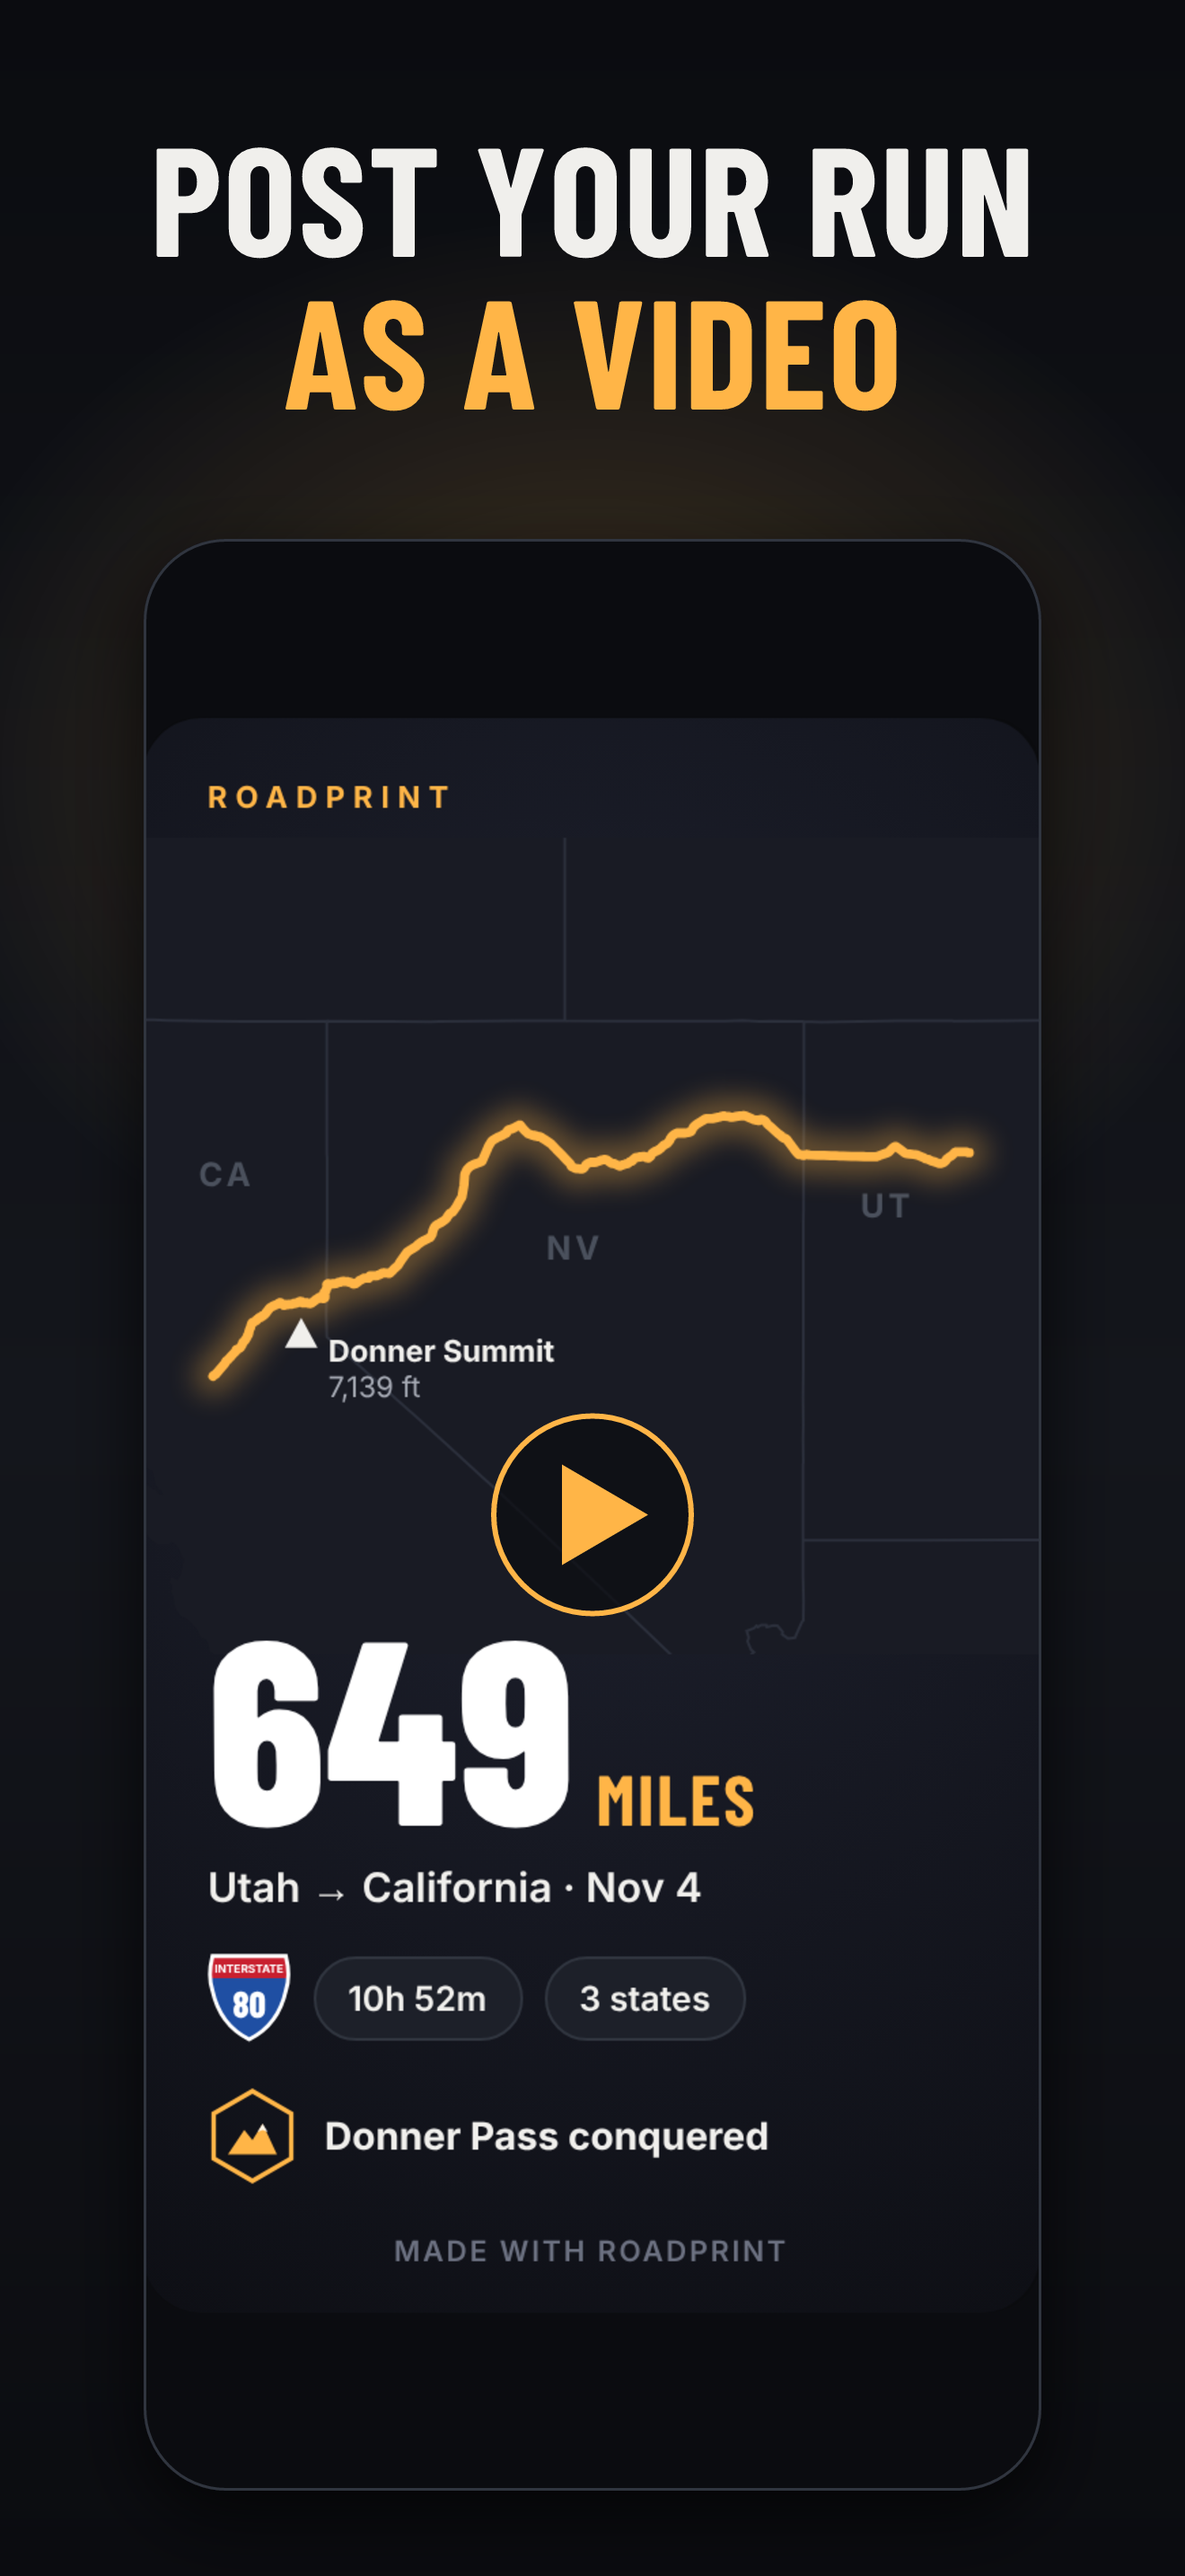
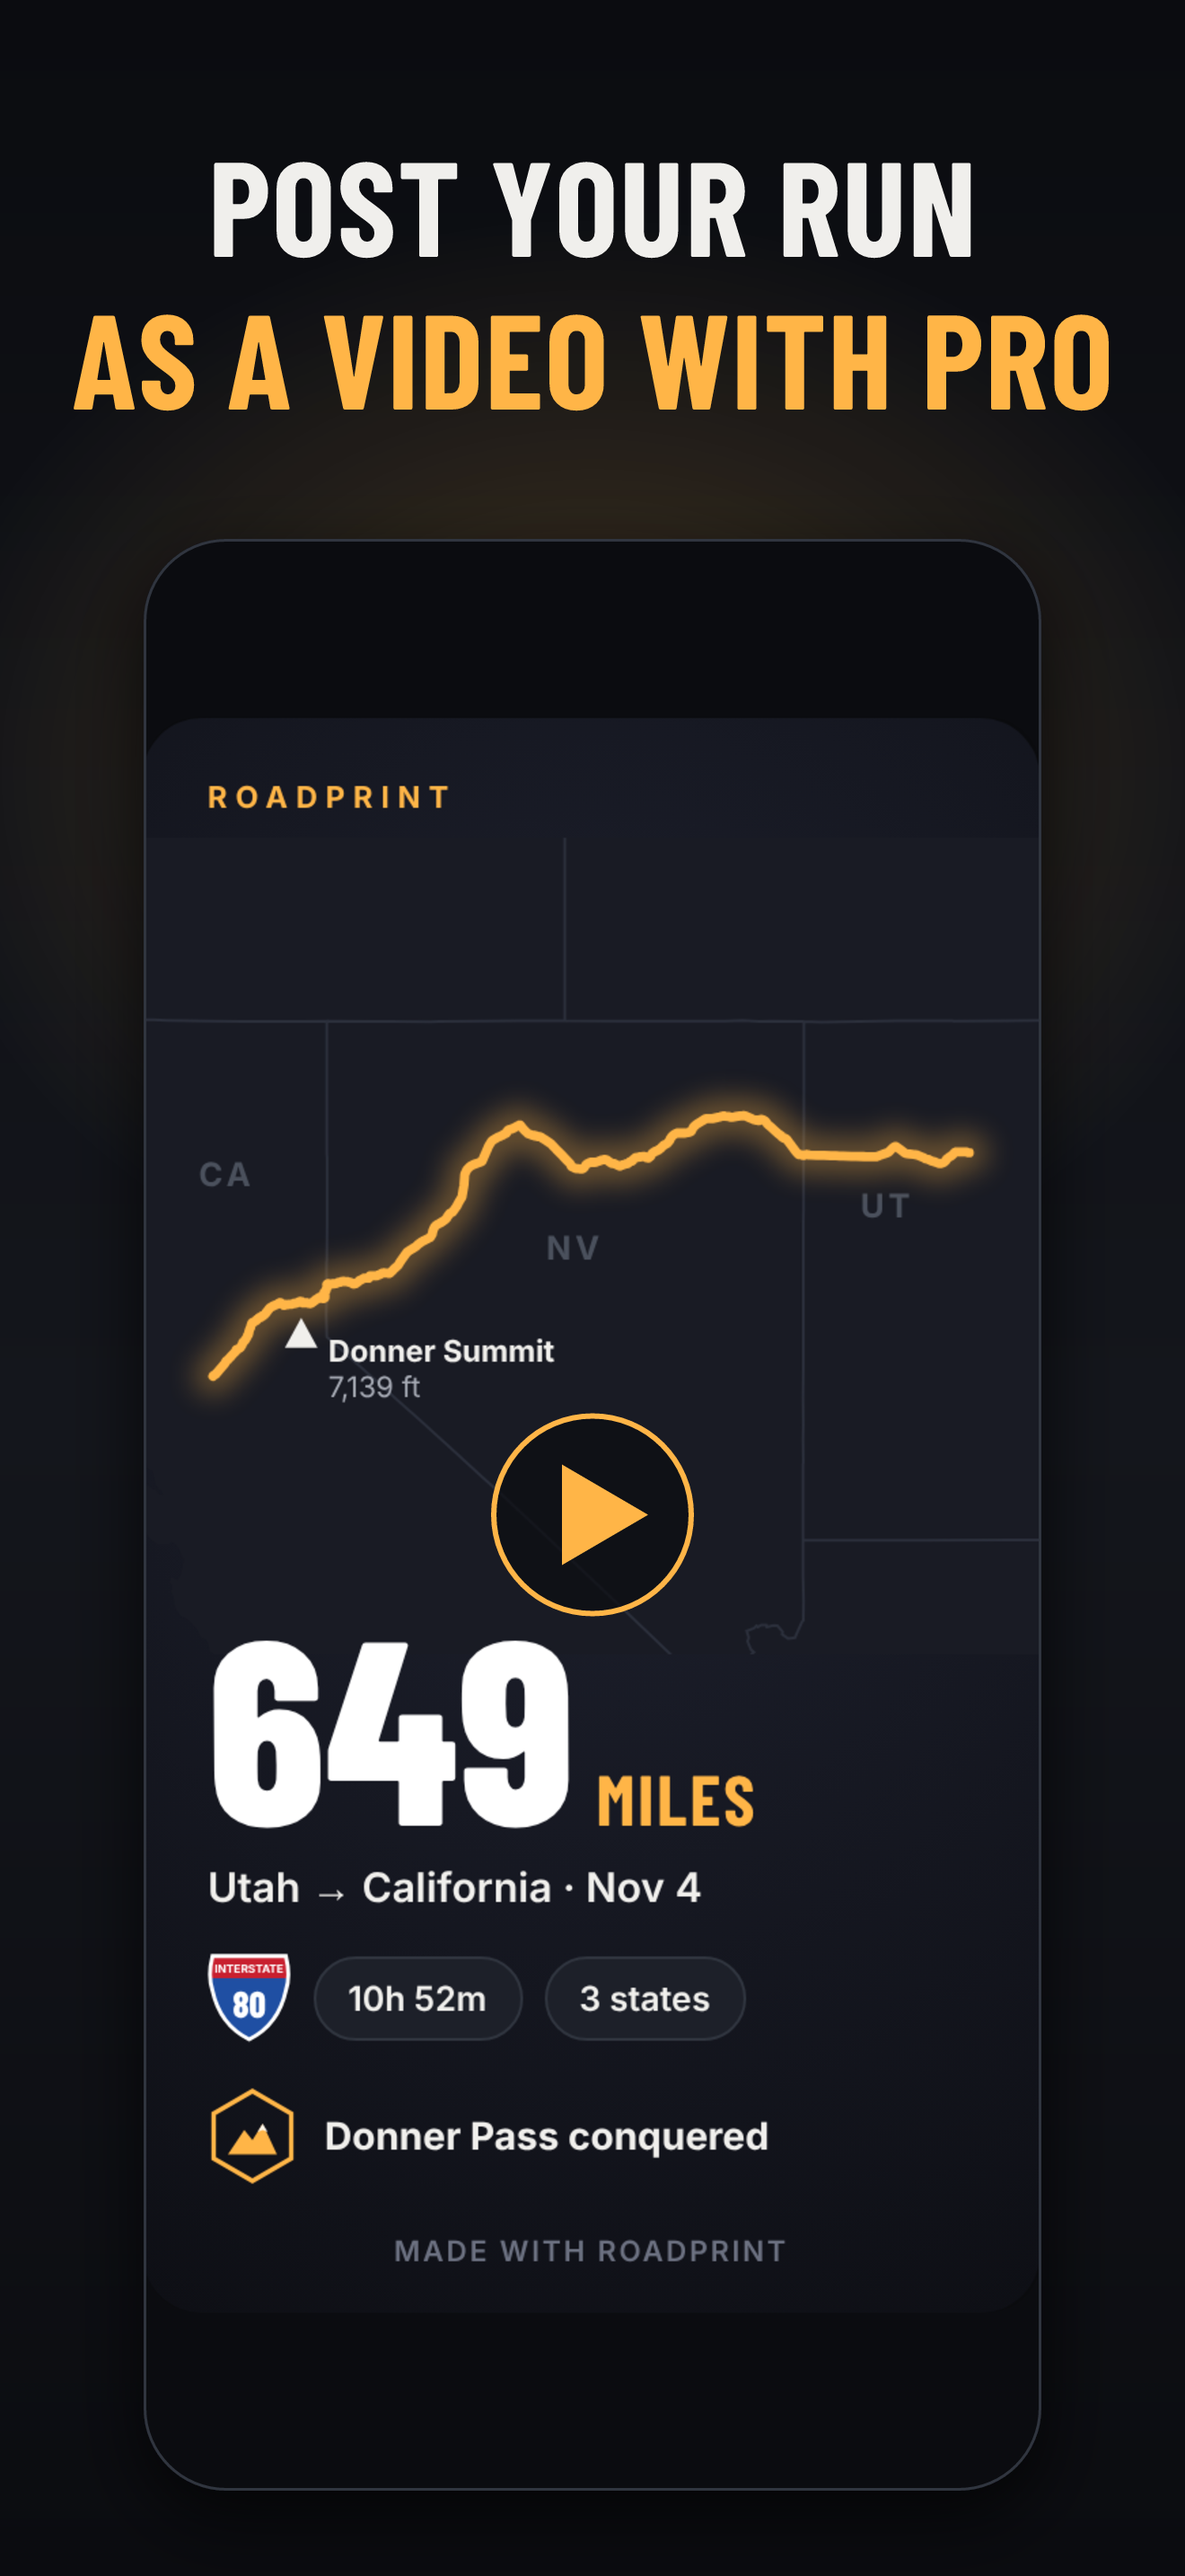
ROA-117: Caption 05 says the video card needs Pro
Pro ships in 1.0 (board, 2026-11-20) and Video is a Pro feature, so the
listing marks it: POST YOUR RUN / AS A VIDEO WITH PRO.

Changed region(s): [[0.0621, 0.031, 0.9629, 0.1862]]

diff --git a/Design/appstore/README.md b/Design/appstore/README.md
@@ -8,9 +8,9 @@ Five framed screenshots for the 1.0 listing (plan §12.2). The captions speak to
 | 02 | SHOW OFF / YOUR LANES | Share sheet, Night Highway (`02-night-highway`) |
 | 03 | EVERY ROAD YOU'VE RUN, / LIT UP ON ONE MAP | My map, lifetime, several distinct roads (`03-my-map`) |
 | 04 | ONE TAP TO START. / NO ACCOUNT. NO ADS. | Drive, idle (`04-drive`) |
-| 05 | POST YOUR RUN / AS A VIDEO | Share sheet, Video tab mid-draw (`05-trip-card-video`) |
+| 05 | POST YOUR RUN / AS A VIDEO WITH PRO | Share sheet, Video tab mid-draw (`05-trip-card-video`) |
 
-The inputs are matched by sorted file name, so ROA-95's fifth capture lands in 05 whatever its exact name. No light-theme or Road Atlas promotion: the board wants the night look and the trip video instead. The caption doesn't say Pro, because 1.0 sells no Pro tier yet; add WITH PRO only when the build gates Video behind Pro.
+The inputs are matched by sorted file name, so ROA-95's fifth capture lands in 05 whatever its exact name. No light-theme or Road Atlas promotion: the board wants the night look and the trip video instead. Video is Pro in 1.0 (board, 2026-11-20), so caption 05 says WITH PRO: the listing must show which features need the subscription.
 
 - `frame.svg` is the 1320 × 2868 template. `caption-line-1` and `caption-line-2` are text placeholders, and `screenshot-placeholder` is the screen area (x 160, y 600, 1000 × 2173, corner radius 92).
 - `out/01.png` to `out/05.png` are the files to upload. They are exactly 1320 × 2868, 8-bit RGB, with no alpha channel.
